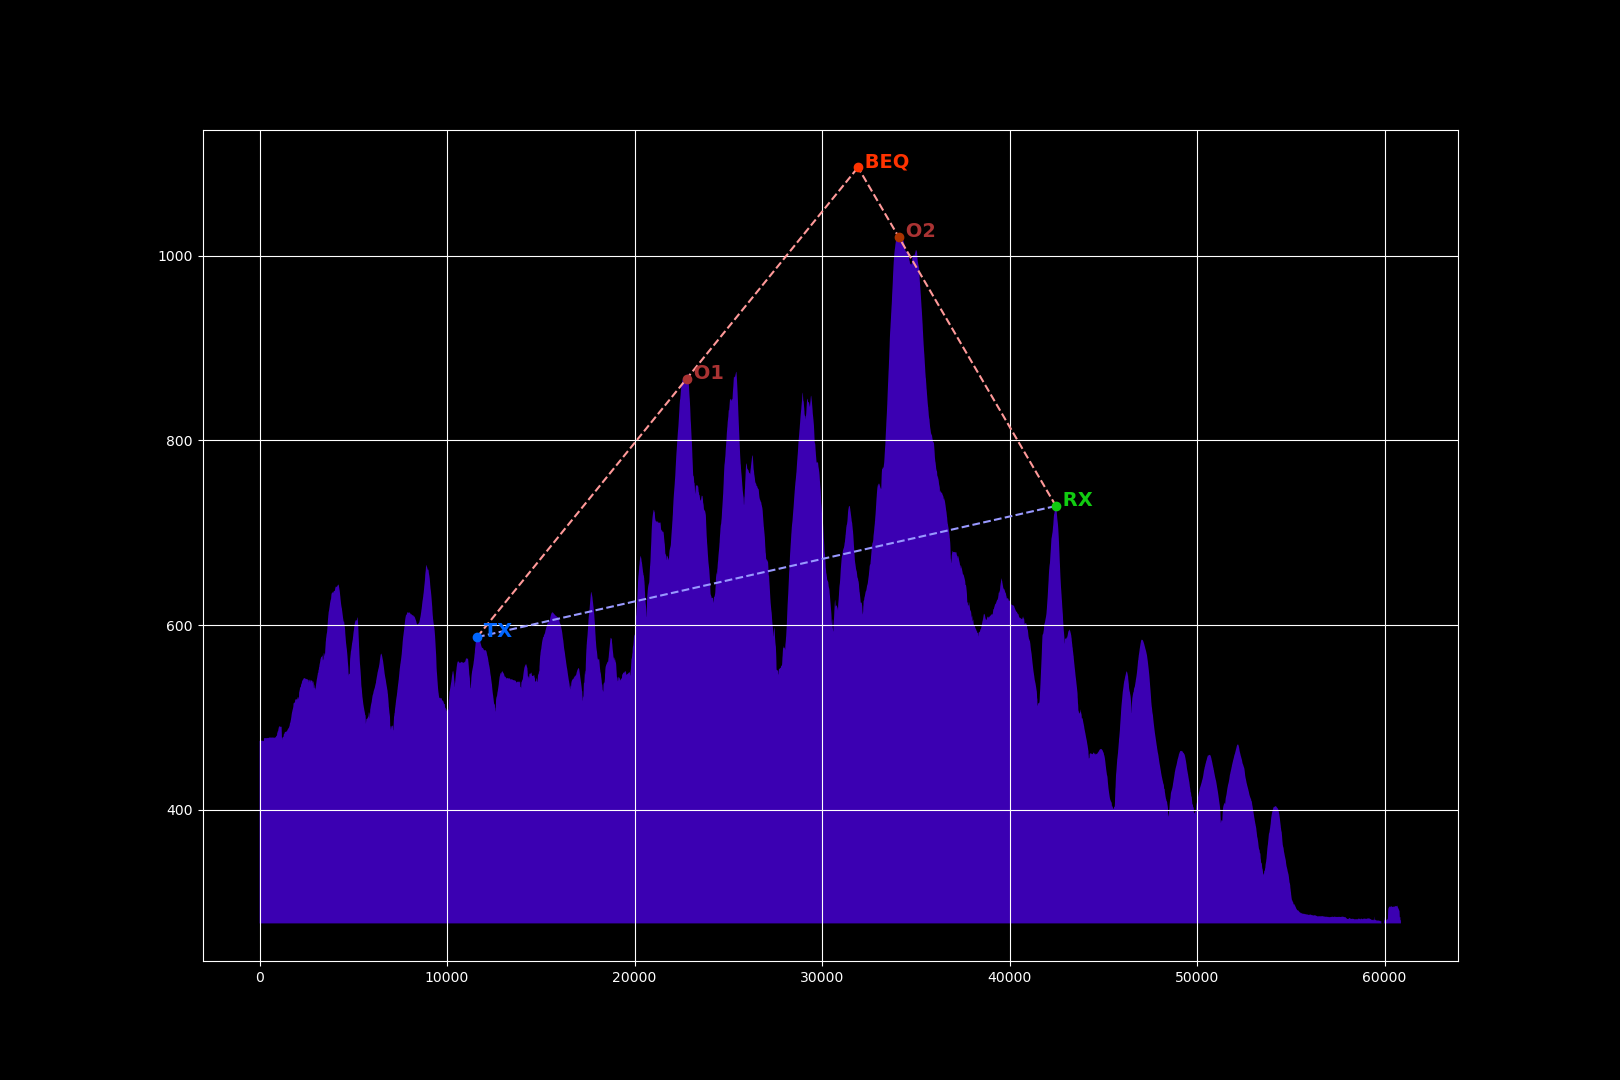
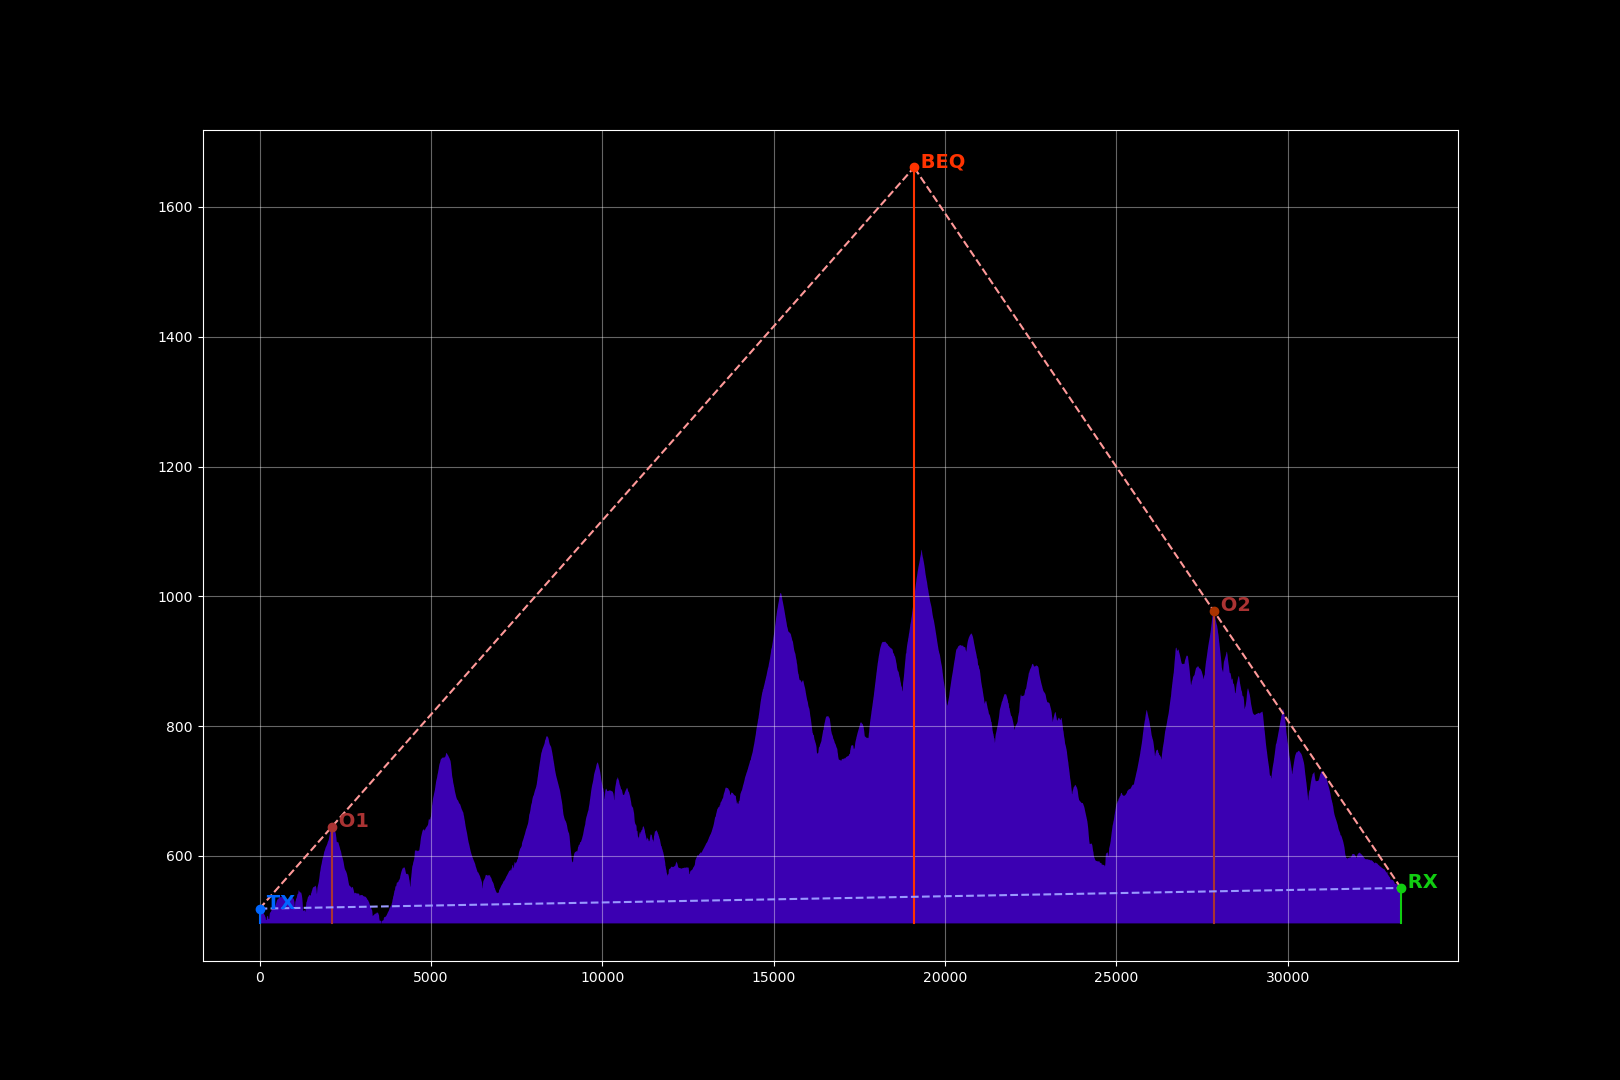
graphics improvement

diff --git a/main.py b/main.py
@@ -20,7 +20,7 @@ class Bullington():
         plt.style.use('dark_background')
         plt.figure(figsize=(16.2,10.8))
         plt.tight_layout()
-        plt.grid()
+        plt.grid(alpha=0.4)
 
         # axes = plt.gca()
         # axes.set_xlim([0,10000])
@@ -58,14 +58,23 @@ class Bullington():
 
     def plot_apexes(self):
         plt.scatter(self.TX[0], self.TX[1], c='#0066FF', zorder=10)
+        plt.plot( (self.TX[0], self.TX[0]),(self.TX[1], np.amin(self.terrain[:,1])) , c='#0066FF')
         plt.text(self.TX[0], self.TX[1],' TX', c='#0066FF', fontsize = 14, weight='bold')
+       
         plt.scatter(self.RX[0], self.RX[1], c='#11CC11', zorder=10)
+        plt.plot( (self.RX[0], self.RX[0]),(self.RX[1], np.amin(self.terrain[:,1])) , c='#11CC11')
         plt.text(self.RX[0], self.RX[1],' RX', c='#11CC11', fontsize = 14, weight='bold')
+       
         plt.scatter(self.O1[0], self.O1[1], c='#AA3333', zorder=10)
+        plt.plot( (self.O1[0], self.O1[0]),(self.O1[1], np.amin(self.terrain[:,1])) , c='#AA3333')
         plt.text(self.O1[0], self.O1[1],' O1', c='#AA3333', fontsize = 14, weight='bold')
+       
         plt.scatter(self.O2[0], self.O2[1], c='#AA3300', zorder=10)
+        plt.plot( (self.O2[0], self.O2[0]),(self.O2[1], np.amin(self.terrain[:,1])) , c='#AA3333')
         plt.text(self.O2[0], self.O2[1],' O2', c='#AA3333', fontsize = 14, weight='bold')
+       
         plt.scatter(self.BEQ[0], self.BEQ[1], c='#FF3300', zorder=10)
+        plt.plot( (self.BEQ[0], self.BEQ[0]),(self.BEQ[1], np.amin(self.terrain[:,1])) , c='#FF3300')
         plt.text(self.BEQ[0], self.BEQ[1],' BEQ', c='#FF3300', fontsize = 14, weight='bold')
 
 
